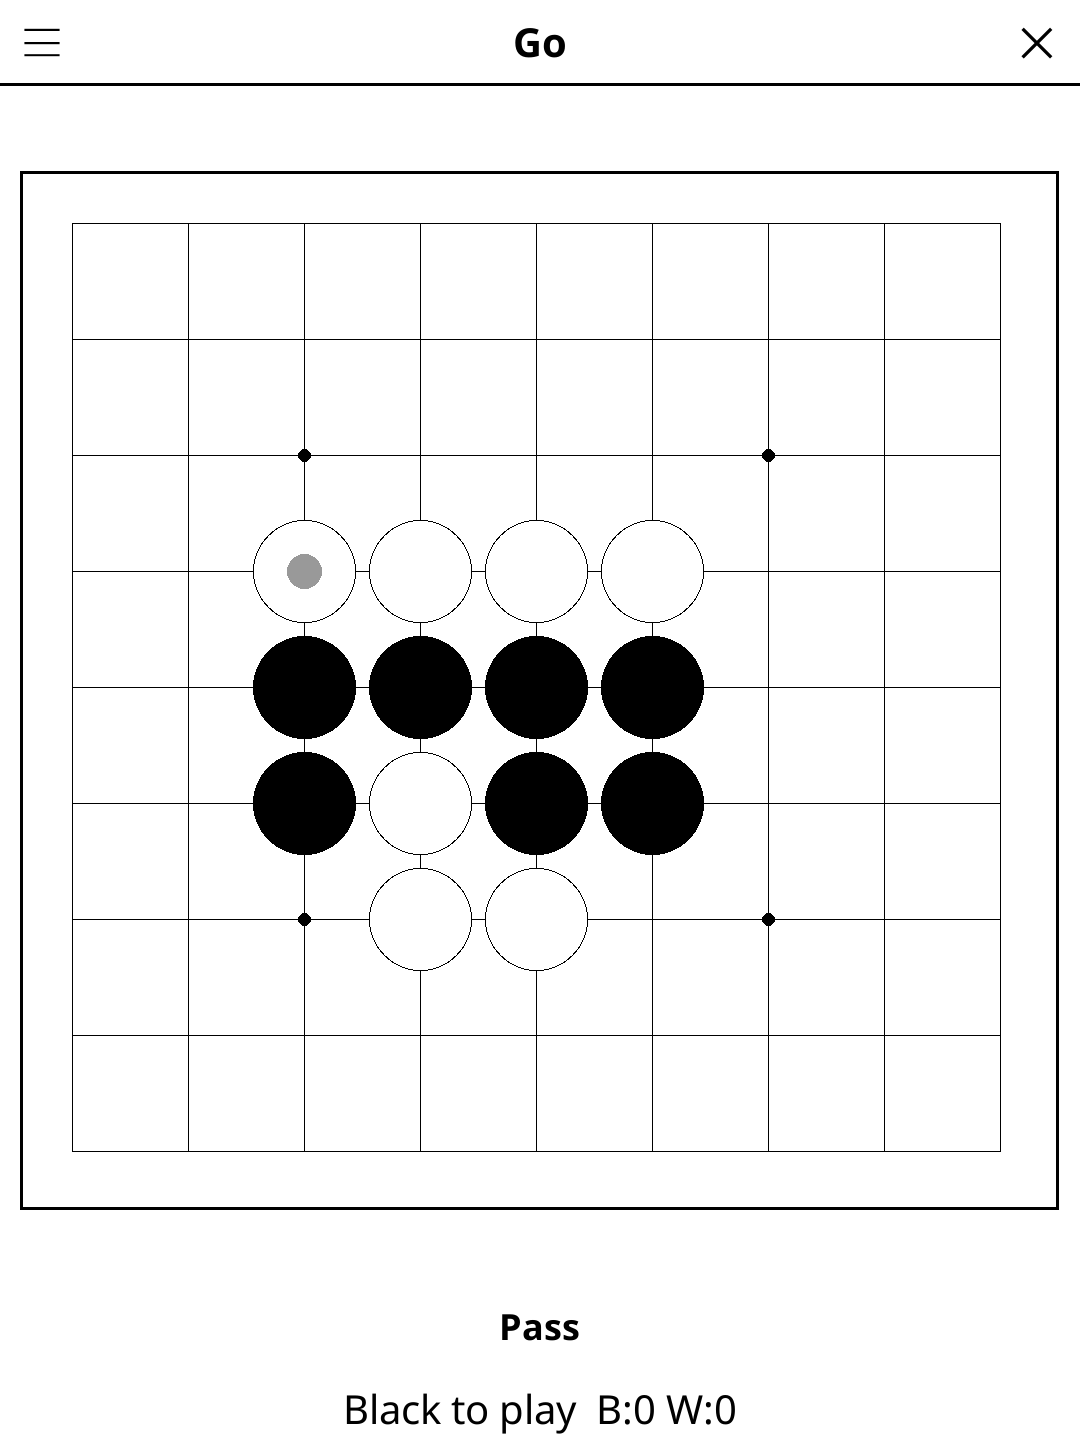
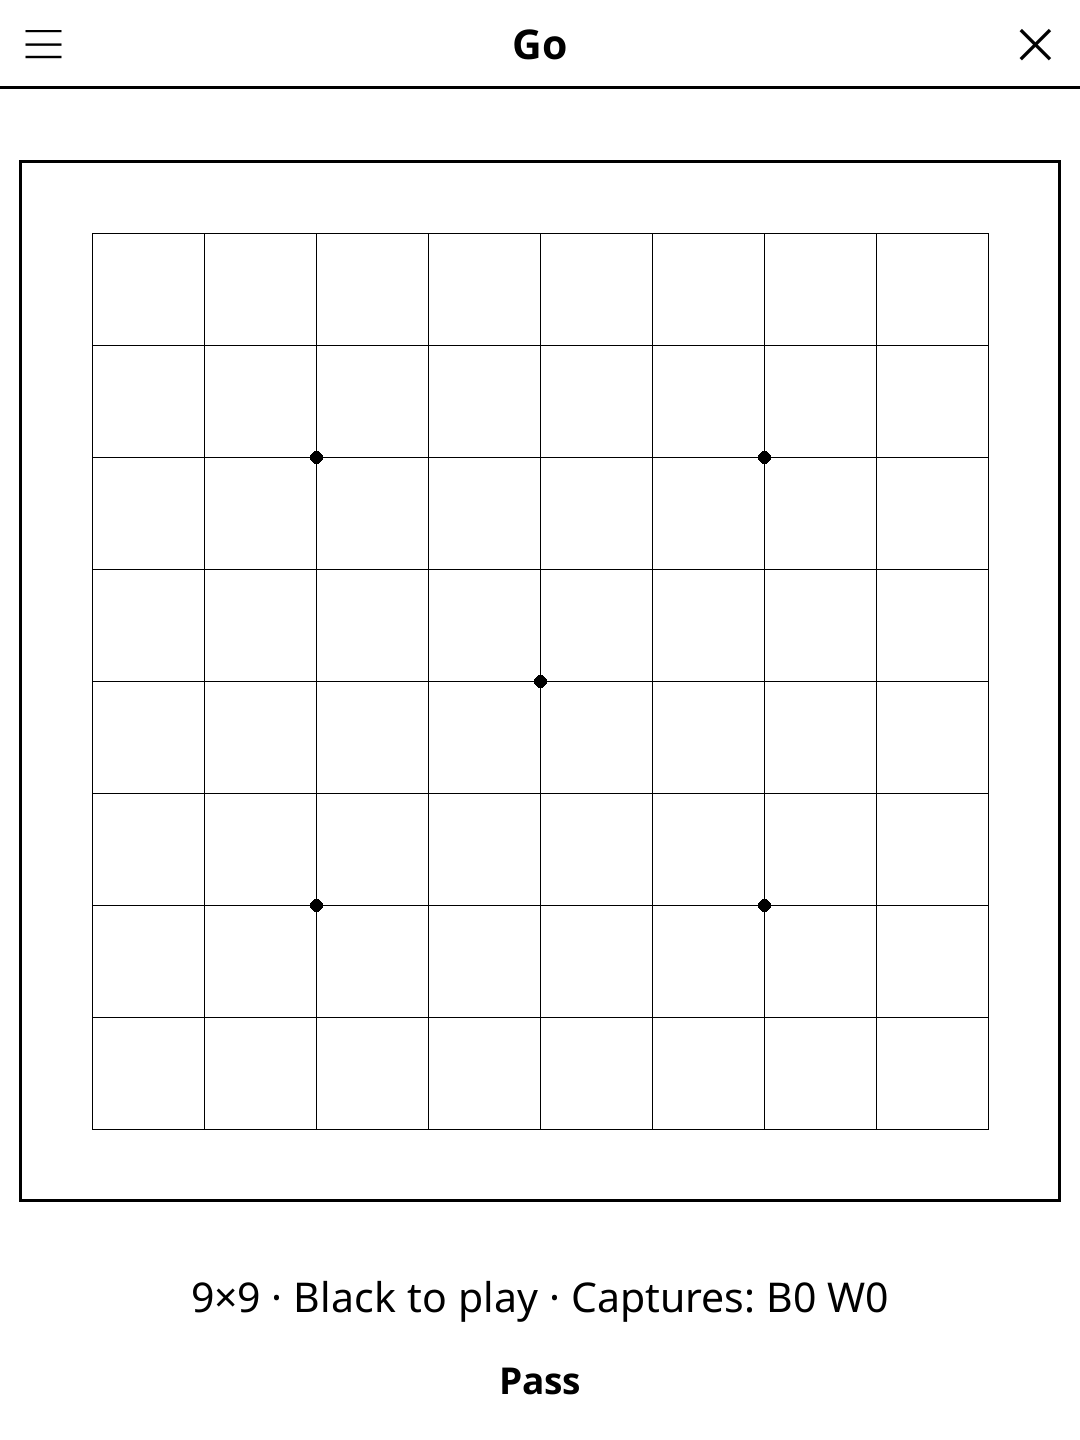
release: 1.2.0 -- redesigned screen, harmonised menu, New game at round end
Screen redesign (full-width action bar, unified pad, status line, larger
board), harmonised title-bar menu, and a "New game" button once the round
is over. See CHANGELOG.md.

diff --git a/CHANGELOG.md b/CHANGELOG.md
@@ -2,6 +2,26 @@
 
 All notable changes to this project will be documented in this file.
 
+## [1.2.0] - 2026-10-30
+
+### Added
+- "New game" once the game is over (two passes in a row): the action bar
+  shows it in place of Pass, so the next game no longer needs the menu.
+
+### Changed
+- Redesigned play screen, in line with the other games: a full-width action
+  bar and a larger board that fills the available room. The status line
+  reads "size · Black to play · Captures: B0 W0" and wraps in landscape
+  instead of being cut off.
+- Title-bar menu in the same order as every other game: New game, "Size:
+  9×9" (was a bare "9×9" after the opponent entry), Opponent, Pass, Rules.
+- New README screenshot.
+
+### Fixed
+- Stones on the edge of the board were clipped. The margin around the grid
+  was a fixed 4% of the board, smaller than a stone's radius on 9×9; it is
+  now about half a cell, so edge stones are drawn whole.
+
 ## [1.1.2] - 2026-10-02
 
 ### Fixed
